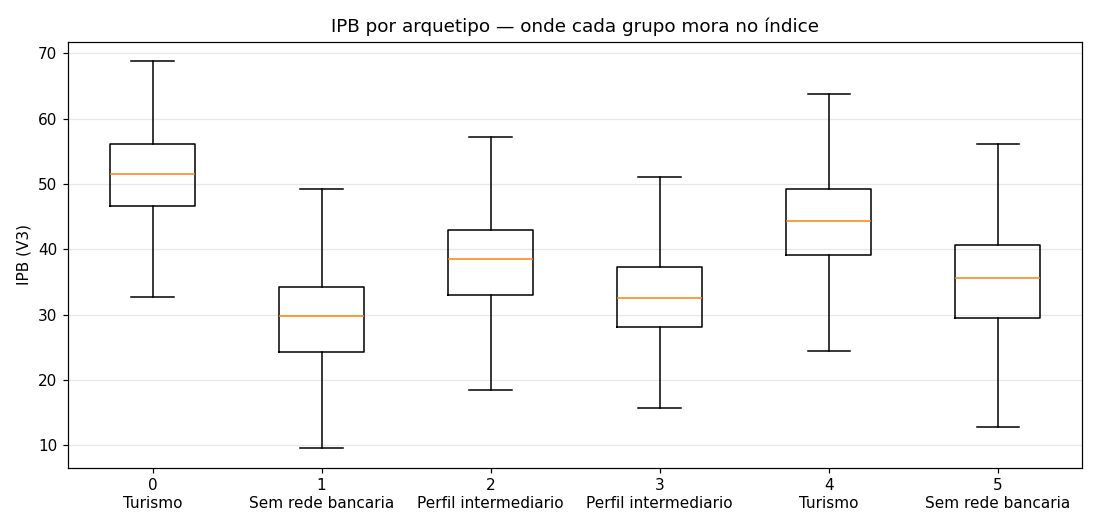
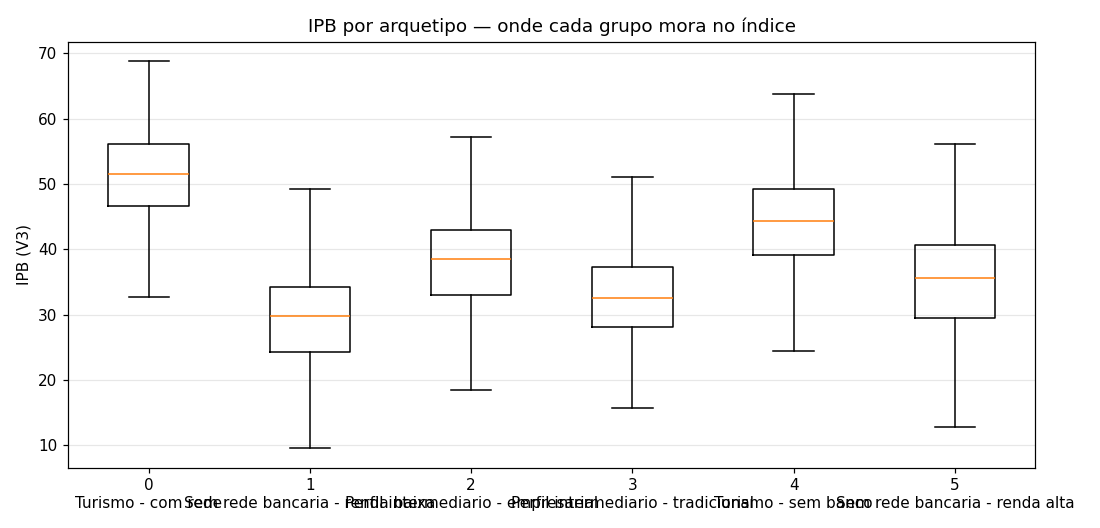
docs: documenta arquetipos municipais e atualiza relatorio

diff --git a/docs/Arquetipos_Municipais.md b/docs/Arquetipos_Municipais.md
@@ -1,0 +1,66 @@
+# Arquétipos Municipais — documentação dos 6 clusters
+
+> **Data:** 2026-09-13 · **Método:** K-Means com K=6 sobre as 19 features da Etapa 3
+> **Código:** `src/analytics/clustering.py` (clusterização + regras de nome) · **Notebook:** `notebooks/01_modelagem/01_dataset_e_arquetipos.ipynb` (execução com figuras)
+> **Conceitos (o que é K, silhouette etc.):** guia de referência local do grupo em `referencias/ML_Guia_de_Conceitos.md` (fora do Git, pasta `referencias/`)
+> **Status:** nomes são **sugestão por regra sobre os dados** — validação do grupo **pendente** (este doc é a base pra decisão).
+
+---
+
+## 1. Os arquétipos são baseados em quê?
+
+Em **nada que tenha sido decidido na mão**. A cadeia é:
+
+1. **Dados:** as 19 variáveis aprovadas na discussão (renda, PIB, Pix, banda larga, agências, correspondentes, CEMPRE... — lista em `src/analytics/modelagem.py`, `FEATURES_MODELO`).
+2. **Transformação:** `log1p` nas 14 colunas de cauda longa + padronização (por quê: guia de conceitos §9 em `referencias/ML_Guia_de_Conceitos.md` — sem isso SP virava cluster sozinha).
+3. **Agrupamento:** K-Means com K=6 (como o K foi escolhido: §3 abaixo). Nenhum rótulo humano entra aqui — o algoritmo só calcula distâncias entre as 5.570 cidades nas 19 dimensões.
+4. **Perfil:** para cada grupo, calculamos a média de cada variável (a "cidade média" do grupo). É essa tabela que aparece abaixo — **a narrativa nasce dela**.
+5. **Nome:** regra automática (`sugerir_nomes_perfis`) compara cada média ao **perfil nacional ponderado**: alojamento-alimentação muito acima → *Turismo*; Pix PJ acima → *Polo empresarial*; agências ~zero → *Sem rede bancária*... Se um nome repete, um **discriminador** separa o par (ex.: os dois "Turismo" viraram *Turismo - com rede* e *Turismo - sem banco*). Regras e discriminadores são dados, não opinião — mas o grupo pode (e deve) revisar os nomes finais.
+
+**Solidez dos grupos (número):** dá para reconhecer o arquétipo de uma cidade olhando **só** as 13 variáveis socioeconômicas + digitais (sem nada de banco): F1 macro = **0,826** (`notebooks/01_modelagem/02_classificacao_presenca.ipynb`, seção 3). Ou seja: o arquétipo é uma propriedade da cidade, não um acidente da rede bancária instalada.
+
+## 2. Tabela de perfis (valores reais, não log)
+
+Média de cada variável dentro do grupo (fonte: notebook 01, seção 4):
+
+| Arquétipo (sugestão) | n | Pop. média | PIB pc (R$) | Renda dom. pc (R$) | Pix pc (R$) | Pix PJ (%) | Empregos formais /1000 | Alojamento aliment. /1000 | Agências /100k | Corresp. /100k | IPB médio | % sem agência |
+|---|---|---|---|---|---|---|---|---|---|---|---|---|
+| **Turismo - com rede** | 740 | 180.726 | 67.376 | 1.731 | 70.560 | 51% | 370 | 3,3 | 7,8 | 125 | 51,2 | 0% |
+| **Sem rede bancária - renda baixa** | 1.278 | 9.986 | 16.550 | 716 | 38.500 | 18% | 103 | 0,4 | 0,0 | 143 | 28,6 | **100%** |
+| **Intermediário - empresarial** | 1.248 | 14.390 | 54.255 | 1.517 | 54.746 | 42% | 269 | 2,3 | 15,4 | 144 | 37,3 | 0% |
+| **Intermediário - tradicional** | 919 | 34.370 | 20.821 | 810 | 43.430 | 25% | 128 | 0,8 | 7,4 | 94 | 32,6 | 0% |
+| **Turismo - sem banco** | 653 | 6.089 | 60.688 | 1.442 | 52.542 | 42% | 308 | 2,5 | 0,0 | 163 | 43,0 | **100%** |
+| **Sem rede bancária - renda alta** | 732 | 4.181 | 37.192 | 1.330 | 46.426 | 29% | 167 | 1,0 | 0,2 | 175 | 34,3 | 99% |
+
+Leituras de negócio de cada grupo:
+
+- **Turismo - com rede (740):** destinos turísticos grandes/populosos e ricos, **já atendidos** por agências. PIB pc alto + alojamento 3,3/1000 hab (≈8× a média). *Jogada típica: concorrida, o IPB não precisa "descobrir" — é mercado maduro.*
+- **Sem rede bancária - renda baixa (1.278):** o interior pobre — ~10 mil hab, baixa renda e formalização, **100% sem agência** (o maior grupo do país). Correspondentes existem (143/100k). *Jogada típica: só digital/correspondente, ticket baixo.*
+- **Intermediário - empresarial (1.248):** cidades pequenas com **PIB pc alto, Pix PJ 42% e empregos formais altos** — atividade empresarial forte. Agências presentes (15/100k). *Jogada típica: conta PJ, folha, consignado.*
+- **Intermediário - tradicional (919):** cidades médias de renda mediana, perfil "comum do interior". *Jogada típica: varejo padrão.*
+- **Turismo - sem banco (653):** **o achado do projeto** — destinos turísticos **pequenos** (~6 mil hab) e **ricos** (PIB pc 61k), 100% sem agência, correspondência alta (163/100k). Bombinhas está aqui (e é o rank 1 do IPB V3). *Jogada típica: oportunidade clara de primeiro banco físico.*
+- **Sem rede bancária - renda alta (732):** cidades **muito pequenas** (~4 mil hab) com renda acima da média, 99% sem agência, correspondência altíssima (175/100k). *Jogada típica: digital com correspondente de apoio.*
+
+## 3. Como o K foi escolhido (e como opinar)
+
+Tabela de métricas (notebook 01, seção 3 — detalhe de cada métrica no guia de conceitos):
+
+| K | silhouette K-Means | BIC do GMM | Comentário |
+|---|---|---|---|
+| 3 | **0,252** | −1.515 | Melhor silhouette, mas os grupos viram "porte da cidade" (sinônimo do estrato populacional que já temos) — empobrece a narrativa |
+| 5 | 0,222 | −18.905 | Alternativa válida |
+| **6** | 0,200 | −20.591 | **Adotado**: perde 0,05 de silhouette e ganha 6 histórias distintas; clusters equilibrados (653–1.278) |
+| 8 | 0,171 | −24.013 | Fragmenta: grupos começam a se dividir sem ganhar legibilidade |
+
+**Recomendação (pra não ficar só "opção sua"):** manter **K=6**. Argumentos: (1) a diferença de silhouette entre 5 e 6 é pequena e nenhuma das duas é "excelente" — o que decide é o que a banca consegue ouvir; (2) com 6, cada grupo tem uma jogada de negócio diferente (tabela acima), com 3 seriam só "grande/média/pequena"; (3) a solidez está medida: F1 macro 0,826 — os grupos não são artefato. Se na apresentação 6 parecer muito, K=5 é o plano B registrado (troca de uma constante e reexecuta os 3 notebooks; ~5 minutos). Detalhe de cada métrica no guia de conceitos (`referencias/ML_Guia_de_Conceitos.md`).
+
+**Como opinar sobre os nomes:** olhe a tabela da §2 e pergunte "eu conto essa cidade em uma frase pra alguém de fora?". Sugestões de renomeação são bem-vindas — basta editar `K_ESCOLHIDO`/nomes no notebook 01 (ou trocar a regra em `sugerir_nomes_perfis`) e reexecutar. Nomes melhores que os atuais, baseados nos dados da tabela: *Turismo urbano atendido*, *Interior de baixa renda*, *Polo empresarial do interior*, *Cidade média comum*, *Destino turístico rico sem banco*, *Pequena rica de fronteira agro*.
+
+## 4. Onde isso mora
+
+| Produto | Onde |
+|---|---|
+| Labels por município + nome do arquétipo | tabela `analytics_ipb_clusters` no BigQuery (colunas `cluster_kmeans`, `arquetipo`, `prob_cluster_gmm`) |
+| Regras de nome e discriminadores | `src/analytics/clustering.py` (`_REGRAS_NOME`, `_DESAMBIGUACAO`) |
+| Perfis e figuras | notebook 01 (seções 3–4) e figuras em `docs/assets/figures/01_*.png` |
+| Distribuição do IPB por arquétipo | boxplot `01_ipb_por_cluster.png` e ranking `01_ranking_ipb_arquetipos.png` |

diff --git a/docs/Relatorio_Modelagem_Etapa3.md b/docs/Relatorio_Modelagem_Etapa3.md
@@ -30,16 +30,16 @@ A pergunta do projeto: *quais municípios brasileiros apresentam a melhor relaç
 
 ![Efeito do log1p na clusterização — silhouette por K, com e sem transformação. Sem o log, `populacao_total` domina e capitais viram micró-grupos; com o log, a estrutura de 6 grupos equilibrados aparece.](assets/figures/01_silhouette_log_vs_bruto.png)
 
-**Perfil dos 6 arquétipos** (médias nos valores reais; nomes são sugestão por regra sobre os dados — pendente de validação do grupo):
+**Perfil dos 6 arquétipos** (médias nos valores reais; nomes sugeridos por regra sobre os dados com desambiguação de pares repetidos — validação do grupo pendente; documentação completa, com leitura de negócio de cada grupo, em **`docs/Arquetipos_Municipais.md`**; guia de conceitos em `referencias/ML_Guia_de_Conceitos.md`, material local do grupo fora do Git):
 
 | Cluster | Nome sugerido | n | Leitura de perfil |
 |---|---|---|---|
-| 0 | Turismo | 740 | Cidades médias/grandes com alojamento-alimentação ~8× a média e rede bancária presente |
-| 1 | Sem rede bancária | 1.278 | Interior pequeno (~10 mil hab), baixa renda e formalização, **100% sem agência** |
-| 2 | Perfil intermediário | 1.248 | PIB pc alto, Pix PJ alto, sem agência raro |
-| 3 | Perfil intermediário | 919 | Cidades médias (~34 mil hab), renda mediana |
-| 4 | Turismo | 653 | **Cidade pequena (~6 mil hab) e rica (PIB pc 61k), sem agência** — o "Búzios" do grupo |
-| 5 | Sem rede bancária | 732 | Cidade muito pequena (~4 mil hab), 99% sem agência |
+| 0 | Turismo - com rede | 740 | Destinos turísticos grandes/populosos, ricos, alojamento ~8× a média, **já com agências** |
+| 1 | Sem rede bancária - renda baixa | 1.278 | Interior pobre (~10 mil hab), baixa formalização, **100% sem agência** |
+| 2 | Perfil intermediário - empresarial | 1.248 | PIB pc alto, Pix PJ 42%, empregos formais altos, agências presentes |
+| 3 | Perfil intermediário - tradicional | 919 | Cidades médias (~34 mil hab), renda mediana |
+| 4 | **Turismo - sem banco** | 653 | **O achado do projeto:** destinos turísticos pequenos (~6 mil hab) e ricos (PIB pc 61k), **100% sem agência** |
+| 5 | Sem rede bancária - renda alta | 732 | Cidades muito pequenas (~4 mil hab), renda acima da média, 99% sem agência |
 
 **Boxplot do IPB por cluster** — onde cada arquétipo mora no índice:
 
@@ -47,7 +47,7 @@ A pergunta do projeto: *quais municípios brasileiros apresentam a melhor relaç
 
 ![Ranking dos arquétipos por IPB médio — os 6 grupos ordenados, de quem pontua mais alto a quem pontua mais baixo.](assets/figures/01_ranking_ipb_arquetipos.png)
 
-**Solidez dos grupos (classificador multi-classe, §4.3):** prever o arquétipo **só pelas 13 exógenas** (sem olhar a estrutura bancária) dá **F1 macro = 0,826 (RF)** e 0,825 (Logística) — os arquétipos são determinados pelo perfil da cidade, não pela presença instalada, e dá para classificar município novo sem dados bancários.
+**Solidez dos grupos (classificador multi-classe, §4.3):** prever o arquétipo **só pelas 13 exógenas** (sem olhar a estrutura bancária) dá **F1 macro = 0,826 (RF)** e 0,825 (Logística) — os arquétipos são determinados pelo perfil da cidade, não pela presença instalada, e dá para classificar município novo sem dados bancários. (Nomes repetidos dos rascunhos iniciais — dois "Turismo", dois "Sem rede" — foram desambiguados automaticamente: ver `docs/Arquetipos_Municipais.md` §1.)
 
 ![Matriz de confusão do classificador de arquétipos (RF, teste): diagonal forte = os 6 grupos se reconhecem só pelo perfil exógeno.](assets/figures/02_matriz_confusao_arquetipos.png)
 
